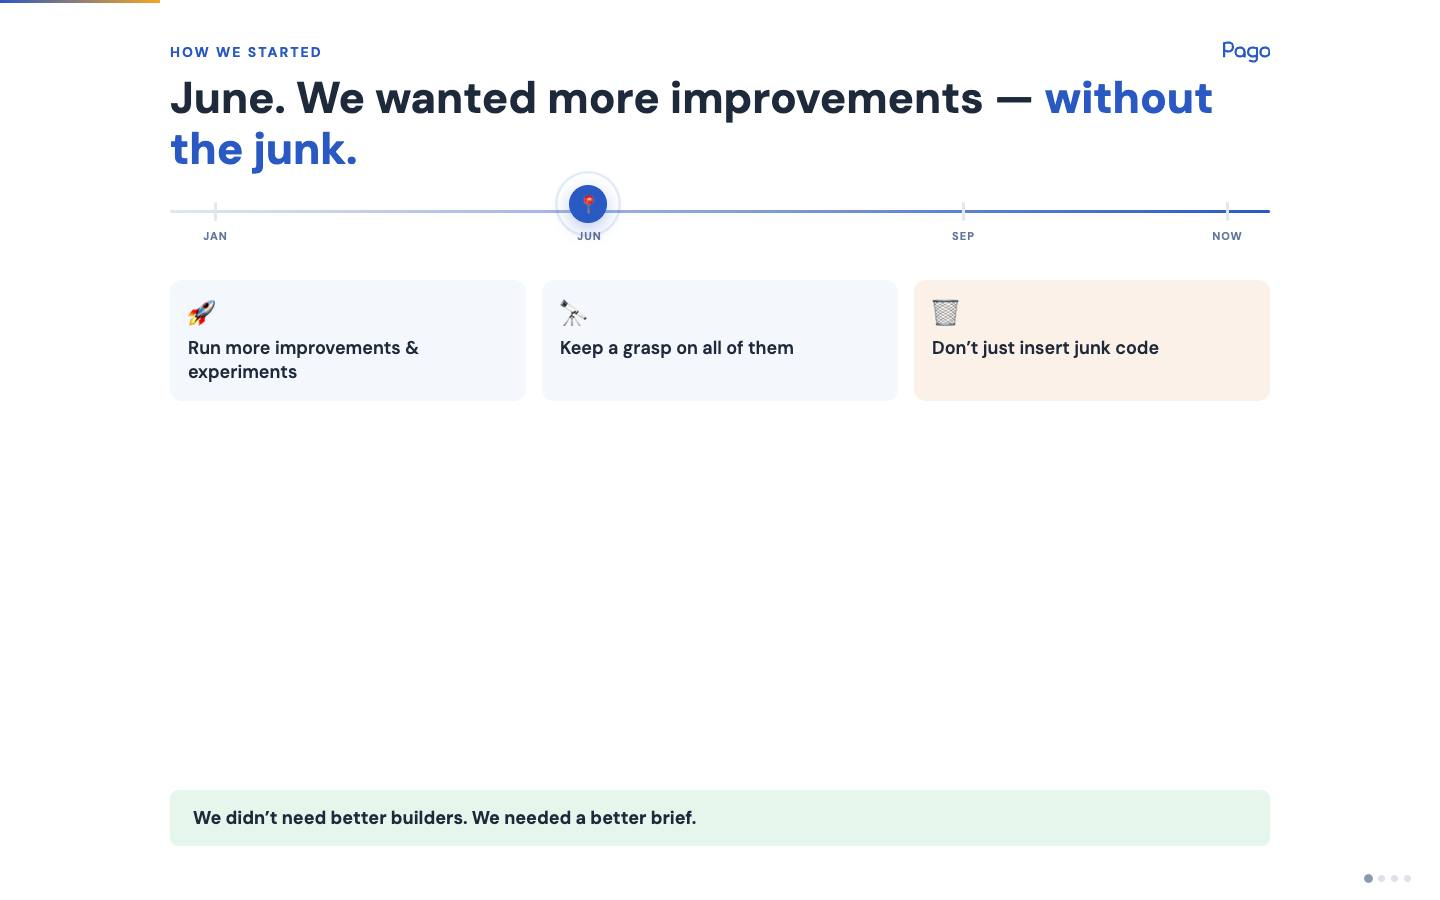
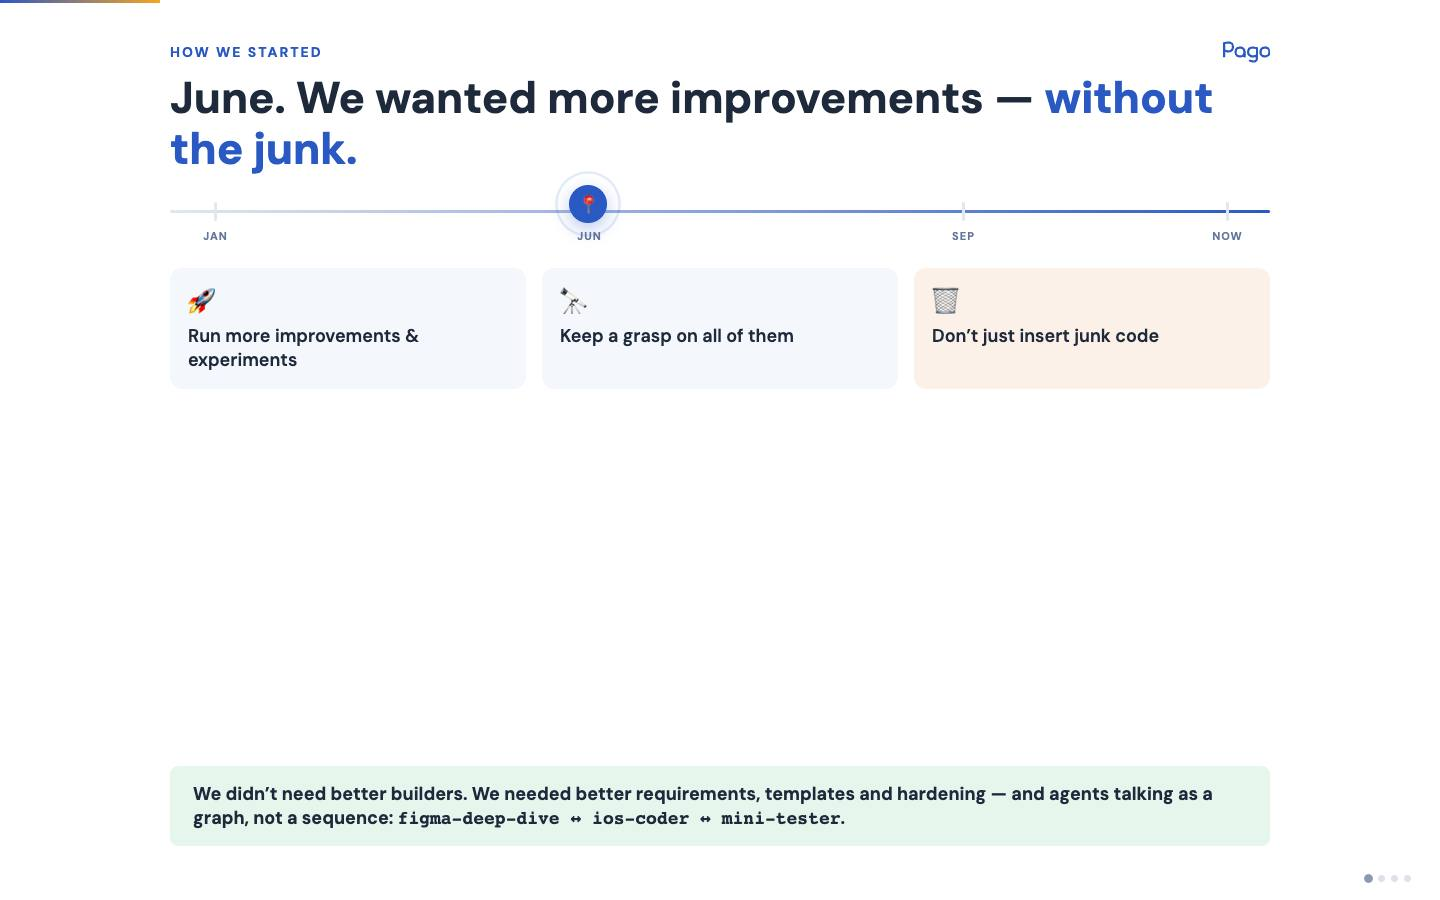
cto-craft v2: fold-01 quote centres on the switch until later stages arrive (hidden stages collapse via grid rows), fold-02 Gas Town line rewritten to the speaker's own account, bottom line becomes better requirements/templates/hardening + agents as a graph

diff --git a/cto-craft/index.html b/cto-craft/index.html
@@ -136,6 +136,14 @@
   width: 0; min-width: 0; opacity: 0; overflow: hidden;
   transition: width 0.9s cubic-bezier(0.22,0.61,0.36,1), opacity 0.7s ease 0.2s; }
 #f01.quote-in .f01-stack { width: 62%; opacity: 1; overflow: visible; }
+/* hidden stages collapse so the quote stays centred on the switch until they arrive */
+.f01-stack { gap: 0; }
+.f01-stack > [data-stage] { display: grid; grid-template-rows: 0fr; grid-auto-rows: 0fr; margin-top: 0;
+  transition: grid-template-rows 0.55s cubic-bezier(0.22,0.61,0.36,1), margin-top 0.55s cubic-bezier(0.22,0.61,0.36,1),
+    opacity 0.55s cubic-bezier(0.22,0.61,0.36,1), transform 0.55s cubic-bezier(0.22,0.61,0.36,1); }
+.f01-stack > [data-stage] > * { min-height: 0; }
+.f01-stack > [data-stage]:not(.stage-visible) { overflow: hidden; }
+.f01-stack > [data-stage].stage-visible { grid-template-rows: 1fr; grid-auto-rows: 1fr; margin-top: clamp(10px, 1.7vh, 20px); }
 .quote { border-left: 4px solid var(--pago-gold); background: linear-gradient(90deg, rgba(8,14,36,0.74), rgba(8,14,36,0.10)); padding: clamp(6px,1vh,12px) 0 clamp(6px,1vh,12px) clamp(14px,1.6vw,22px); }
 .quote p { font-size: clamp(17px, 1.95vw, 28px); font-weight: 500; line-height: 1.38; color: #fff; }
 .quote cite { display: block; margin-top: 8px; font-style: normal; font-size: clamp(11px,1.1vw,15px);
@@ -681,7 +689,7 @@
         </div>
       </div>
       <div class="borrowed" data-stage="3">
-        &#128279; <span><b>Studied Gas Town. Gas City wasn't launched yet &mdash; not stable.</b> Borrowed the shape, built our own implementation.</span>
+        &#128279; <span><b>Used Gas Town personally, on side projects.</b> The team found it over-engineered for our needs; Gas City wasn&rsquo;t stable yet.</span>
         <span class="stat-chip" hidden id="statF02">&mdash;</span>
       </div>
       <div class="insight" data-stage="4">
@@ -689,7 +697,7 @@
         <span>Backend agents already followed our instructions (the Opus&nbsp;4.8 era). The problem was <u>what goes IN</u>.</span>
       </div>
     </div>
-    <div class="bottom-line reveal reveal-d2">We didn&rsquo;t need better builders. We needed a better brief.</div>
+    <div class="bottom-line reveal reveal-d2">We didn&rsquo;t need better builders. We needed better requirements, templates and hardening &mdash; and agents talking as a graph, not a sequence: <code>figma-deep-dive &harr; ios-coder &harr; mini-tester</code>.</div>
   </div>
 </section>
 
